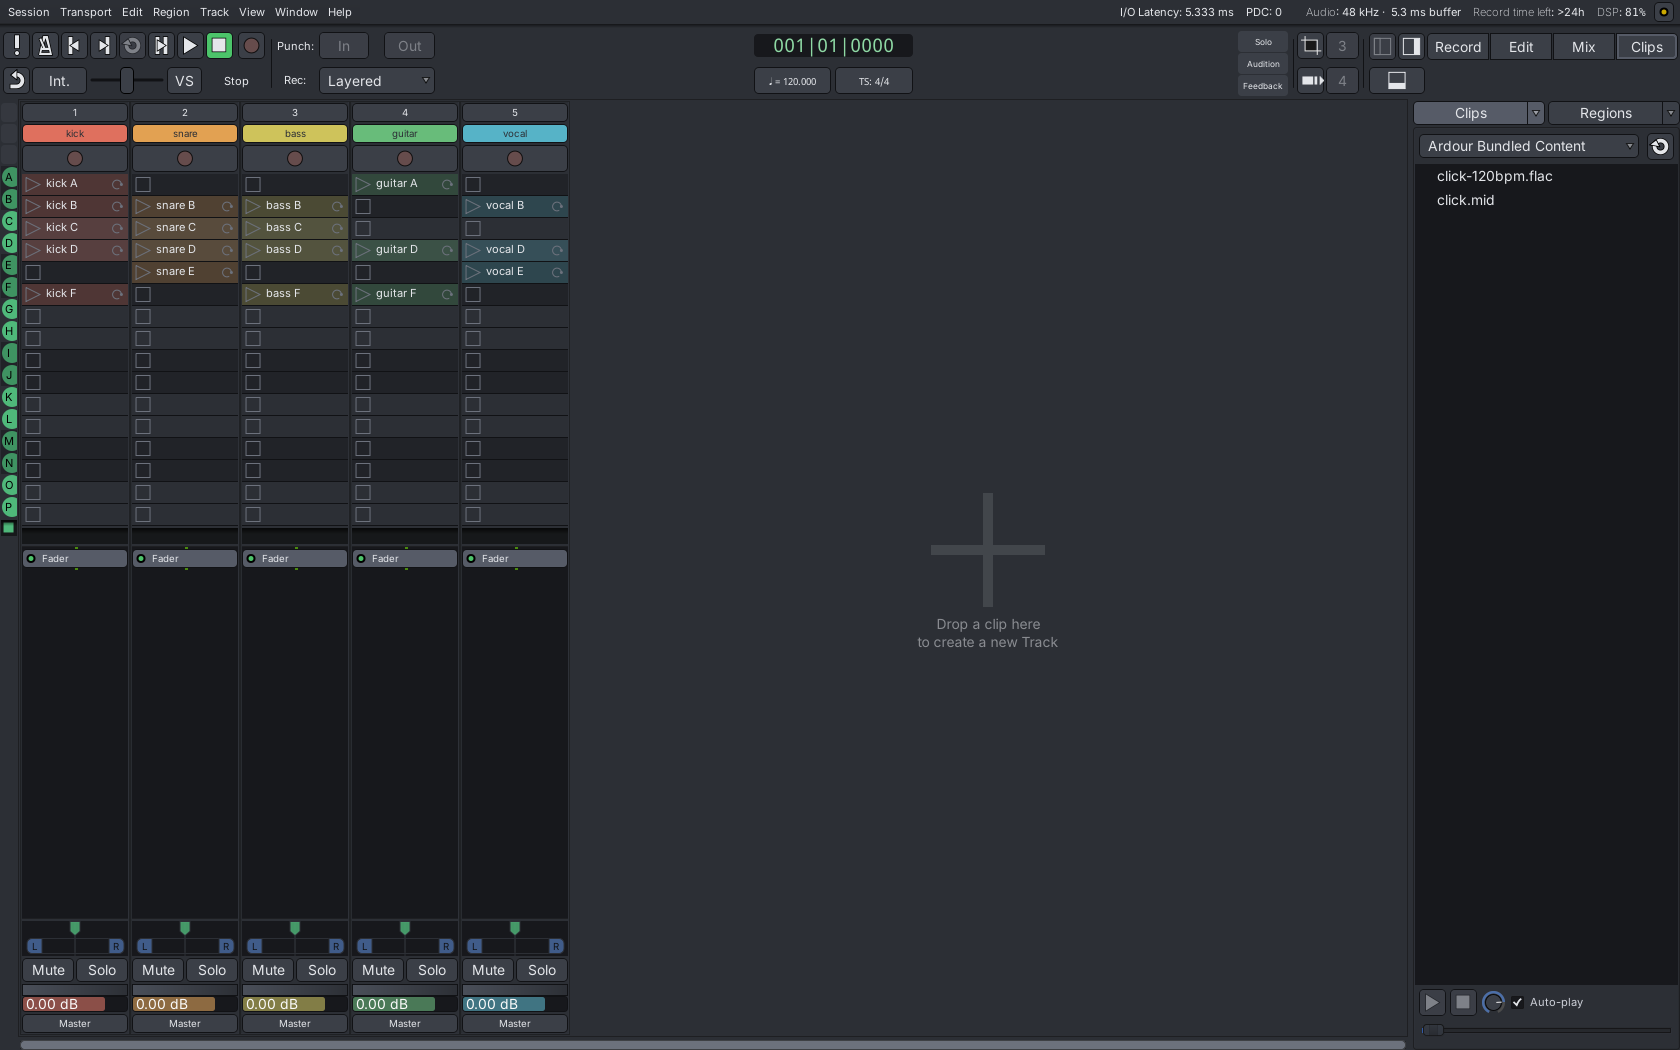
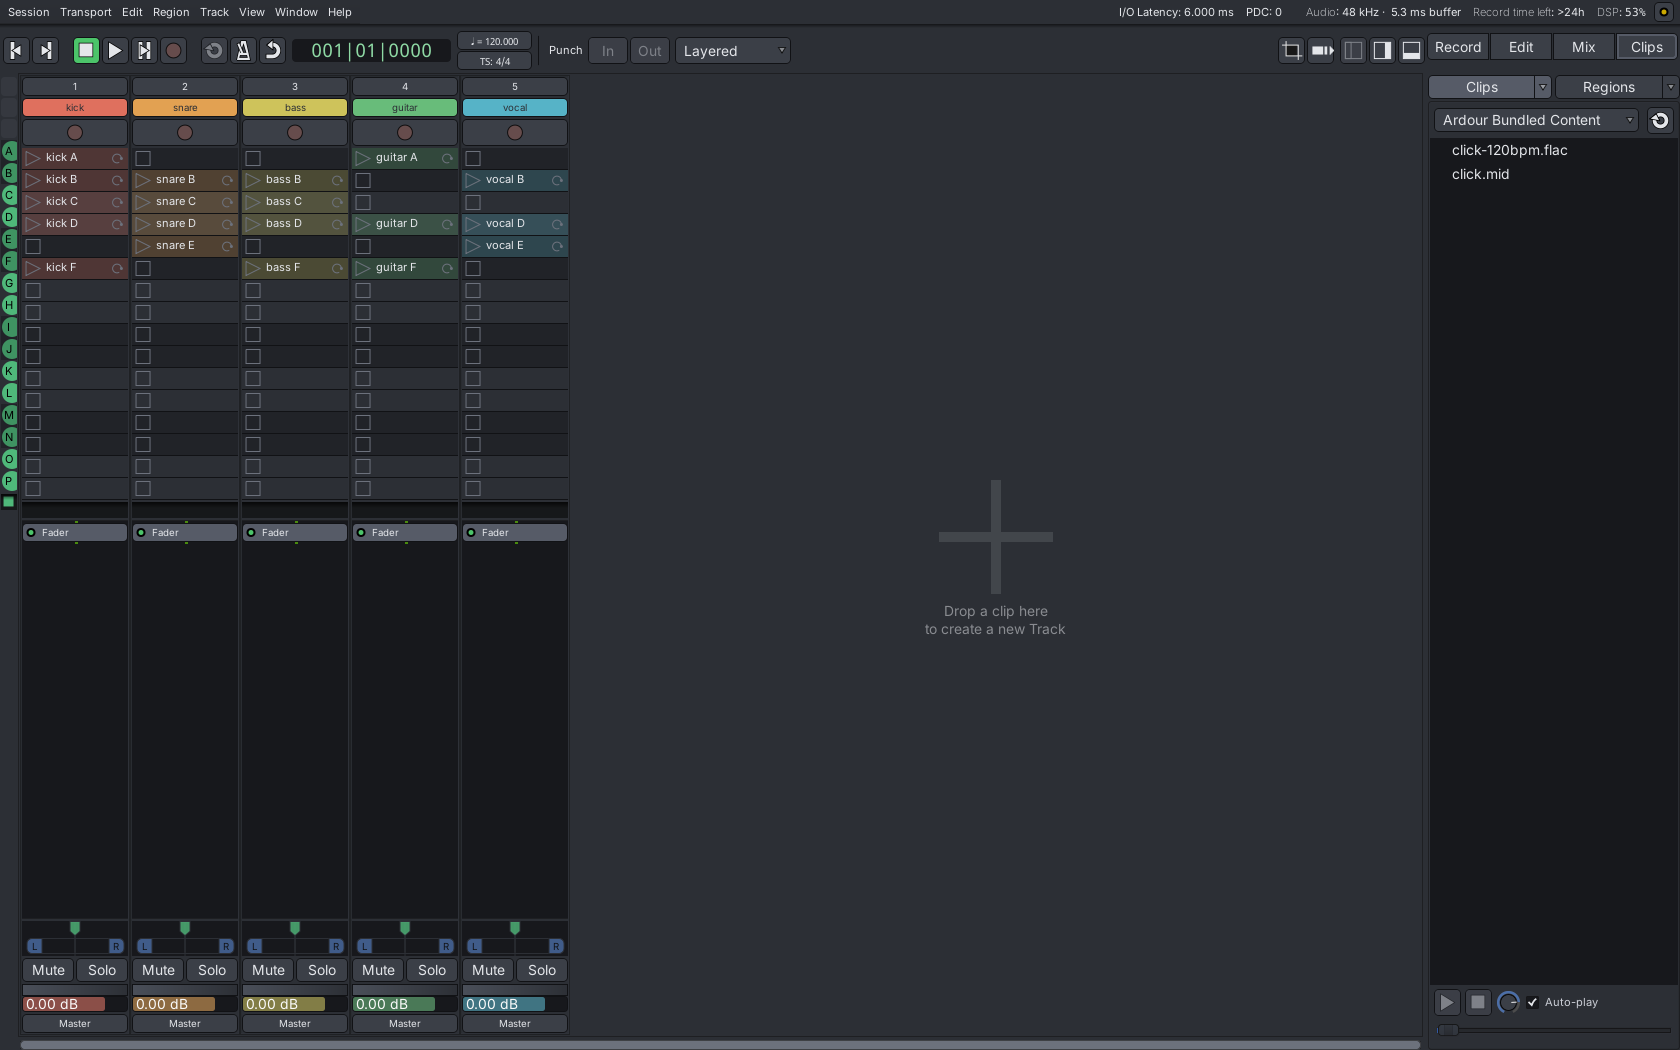
Quick Add: readable input names; wider transport group gaps; QA shots
- "Record from" shows "Input 3 + 4" instead of raw port names, and
  escapes '_' so GTK doesn't turn it into a mnemonic underline.
- Slightly wider gaps between the transport button groups.
- Refreshed after-screenshots, before-after sheet, top bar comparison,
  README and HANDOFF for round 5.

Claude-Session: https://claude.ai/code/session_01QDRAnJr458sdNYktLtHSR6

diff --git a/gtk2_ardour/quick_add_route.cc b/gtk2_ardour/quick_add_route.cc
@@ -24,6 +24,7 @@
 
 #include "pbd/compose.h"
 #include "pbd/error.h"
+#include "pbd/replace_all.h"
 
 #include "ardour/audio_track.h"
 #include "ardour/audioengine.h"
@@ -213,11 +214,27 @@ QuickAddRouteWindow::input_label (int i) const
 	string const& port = _phys_inputs[i];
 	string        pn   = AudioEngine::instance ()->get_pretty_name_by_name (port);
 	if (pn.empty ()) {
-		/* e.g. "system:capture_1" -> "capture_1" */
+		/* e.g. "system:capture_3" -> "Input 3" */
 		string::size_type colon = port.find (':');
 		pn = (colon != string::npos) ? port.substr (colon + 1) : port;
+		if (pn.compare (0, 8, X_("capture_")) == 0 && pn.size () > 8) {
+			pn = string_compose (_("Input %1"), pn.substr (8));
+		}
 	}
 	return pn;
+}
+
+std::string
+QuickAddRouteWindow::input_pair_label (int i) const
+{
+	string const a = input_label (i);
+	string const b = input_label (i + 1);
+	/* "Input 3" + "Input 4" -> "Input 3 + 4" */
+	string::size_type sp = a.rfind (' ');
+	if (sp != string::npos && b.compare (0, sp + 1, a, 0, sp + 1) == 0) {
+		return string_compose (_("%1 + %2"), a, b.substr (sp + 1));
+	}
+	return string_compose (_("%1 + %2"), a, b);
 }
 
 void
@@ -242,10 +259,9 @@ QuickAddRouteWindow::refill_inputs ()
 	}
 	/* stereo: pairs of adjacent inputs (1+2, 3+4, ...) */
 	for (int i = 0; i + (stereo ? 1 : 0) < n; i += (stereo ? 2 : 1)) {
-		string label = input_label (i);
-		if (stereo) {
-			label = string_compose (_("%1 + %2"), label, input_label (i + 1));
-		}
+		string label = stereo ? input_pair_label (i) : input_label (i);
+		/* menu labels use '_' for mnemonics, port names may contain it */
+		replace_all (label, "_", "__");
 		_input_selector.add_menu_elem (MenuElem (label, sigc::bind (sigc::mem_fun (*this, &QuickAddRouteWindow::set_input), i)));
 	}
 
@@ -270,7 +286,7 @@ QuickAddRouteWindow::set_input (int i)
 			break;
 		default:
 			if (_kind != MidiTrack && _stereo_button.get_active ()) {
-				_input_selector.set_text (string_compose (_("%1 + %2"), input_label (i), input_label (i + 1)));
+				_input_selector.set_text (input_pair_label (i));
 			} else {
 				_input_selector.set_text (input_label (i));
 			}

diff --git a/gtk2_ardour/transport_control_ui.cc b/gtk2_ardour/transport_control_ui.cc
@@ -124,7 +124,7 @@ TransportControlUI::setup (TransportControlProvider* ui)
 		 * MIDI panic is not packed: it looked like an error indicator,
 		 * and remains available in the Transport menu.
 		 */
-		const int gap = PX_SCALE (6);
+		const int gap = PX_SCALE (10);
 		pack_start (_goto_start_button, true, true);
 		pack_start (_goto_end_button, true, true, 0);
 		pack_start (*manage (new Gtk::Label ("")), false, false, gap / 2);

diff --git a/gtk2_ardour/quick_add_route.h b/gtk2_ardour/quick_add_route.h
@@ -72,6 +72,7 @@ private:
 	void refill_inputs ();
 	void set_input (int);
 	std::string input_label (int) const;
+	std::string input_pair_label (int) const;
 	void connect_inputs (ARDOUR::RouteList const&);
 
 	Kind _kind;

diff --git a/ui-drafts/HANDOFF.md b/ui-drafts/HANDOFF.md
@@ -77,7 +77,24 @@ render with `src/render.js` (Playwright + preinstalled Chromium; commands in `RE
 | Clips page plain-language labels/tooltips | `trigger_ui.cc`, `slot_properties_box.cc` |
 | QA tools | `tools/ui-qa/` |
 
+### Round 5 (branch `ccr-d562df24-x2zqd5`, not merged yet)
+
+| Area | Files |
+|---|---|
+| Top bar draft `09-topbar-redesign.png` | `ui-drafts/src/topbar.html` |
+| Top bar in one row: transport grouped (locate · stop/play/range/record · loop/click), auto return beside it, tempo/meter stacked next to the clock, Punch In/Out + record mode in one row, pane toggles in one row | `application_bar.{h,cc}`, `transport_control_ui.cc`, `libs/widgets/tabbable.cc` |
+| Sync/shuttle/varispeed hidden by default: new pref `show-toolbar-shuttle` (Appearance › Application Bar) | `ui_config_vars.inc.h`, `rc_option_editor.cc`, `application_bar.cc` |
+| MIDI panic no longer on the bar (Transport menu only, also affects the Big Transport window) | `transport_control_ui.cc` |
+| Solo / Audition / Feedback alerts shown only while active ("Solo active", "Auditioning", "Feedback loop" / "No alignment") | `application_bar.cc` (`update_alert_visibility`) |
+| Only assigned Lua action buttons shown (still limited by `action-table-columns`) | `application_bar.cc` (`update_action_script_visibility`) |
+| Quick Add "Record from" picker: Automatic / No input / hardware input (pairs for stereo, "Input 3 + 4"); several audio tracks take consecutive inputs, MIDI tracks share the device; passes `input_auto_connect=false` when an input is chosen | `quick_add_route.{h,cc}` |
+
 ## Current state / where it stopped
+
+Round 5 (top bar + Quick Add "Record from") builds; `run_static.sh` and `run_gui.sh` pass.
+Picker verified headless: choosing "Input 3 + 4" connects the new track to exactly
+`system:capture_3/4`. Screenshots: `screenshots/after/`, `screenshots/topbar-before-after.png`.
+Menu labels from port names must escape `_` (GTK mnemonics) — see `refill_inputs`.
 
 A working prototype, merged. Iteration loop (screenshot → QA → fix → rebuild), rounds 1–4:
 
@@ -104,7 +121,8 @@ the queued state immediately.
    - mixer plugin "cards", send bars, fader restyle (`processor_box.cc`, `mixer_strip.cc`)
    - region drawing ("region cards")
    - follow actions as one sentence; named scenes; clip library BPM/length
-   - Quick Add "Record from" input picker; bottom status bar
+   - bottom status bar
+   - editor tool row (Edit mode, tools, Snap) merged into the top bar as in draft 02 (not requested yet)
    - Windows Inter registration (`bundle_env_mingw.cc`; falls back to the system font)
 2. For any change: build, `tools/ui-qa/run_static.sh`, `tools/ui-qa/run_gui.sh`, and
    compare screenshots with `ui-drafts/screenshots/after/` (`visual_diff.sh`). Refresh

diff --git a/ui-drafts/README.md b/ui-drafts/README.md
@@ -90,4 +90,5 @@ Scope agreed: colors + layout, with Inter as the UI font.
 - `screenshots/after/` – the redesign build, same demo session (`editor`, `mixer`, `cues`,
   plus `cues-playing` / `cues-queued` clip states).
 - `screenshots/before-after.png` – the three pages side by side.
+- `screenshots/topbar-before-after.png` – the top bar before/after round 5.
 - `HANDOFF.md` – status, decisions, next steps for continuing in a new session.
